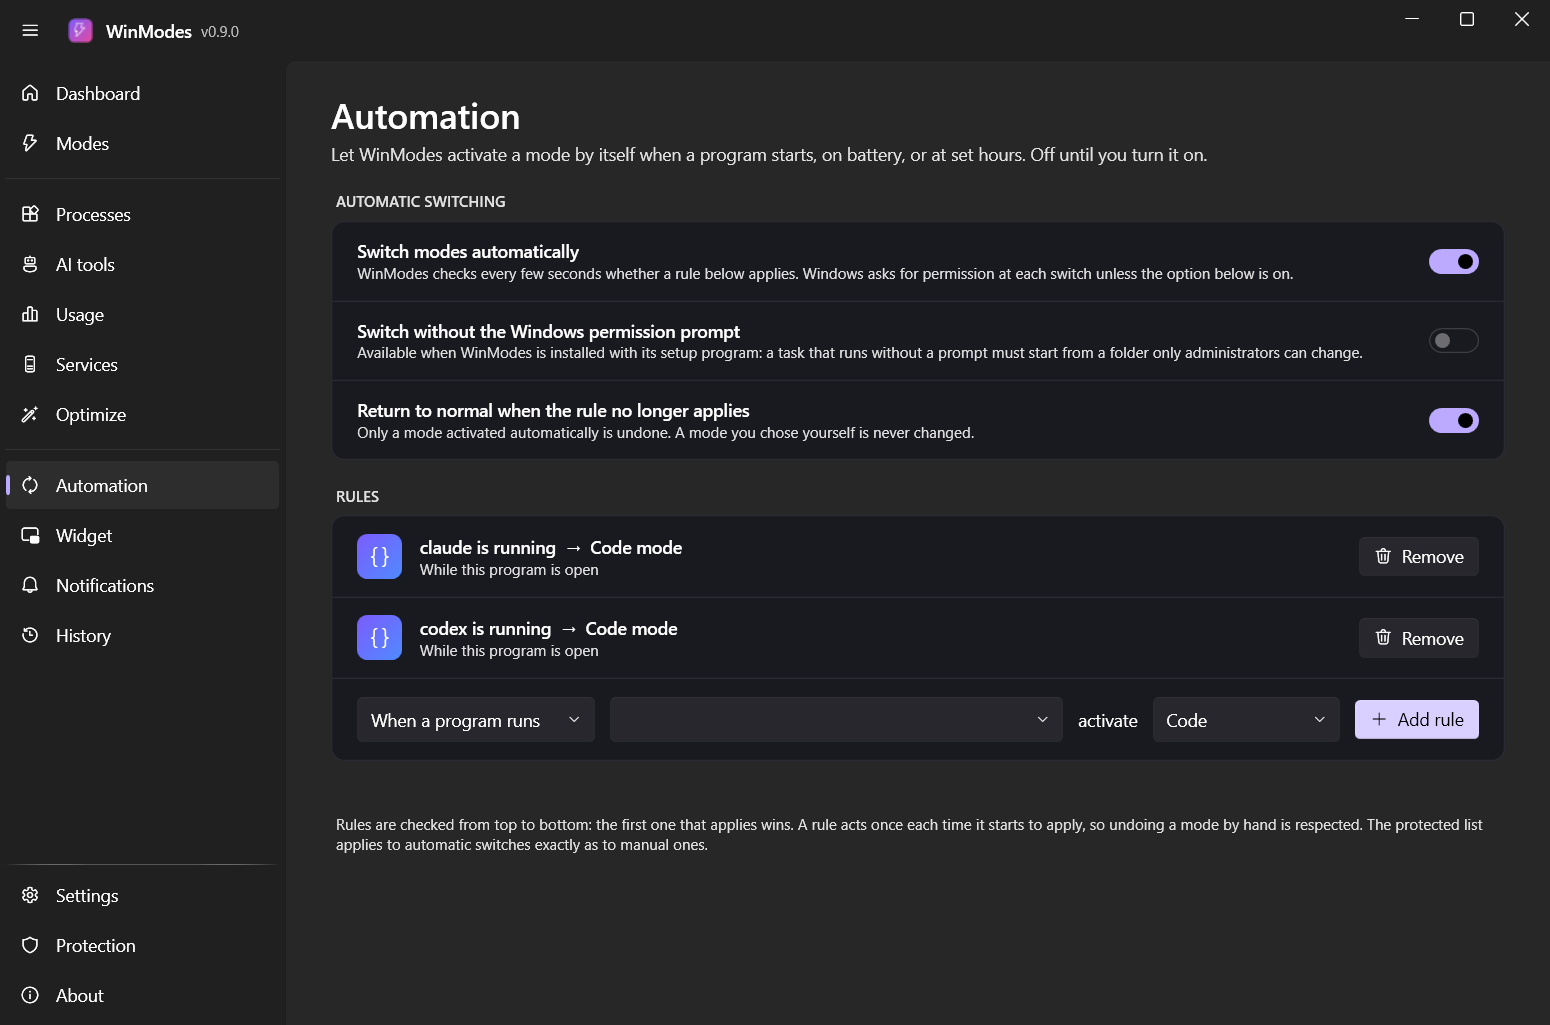
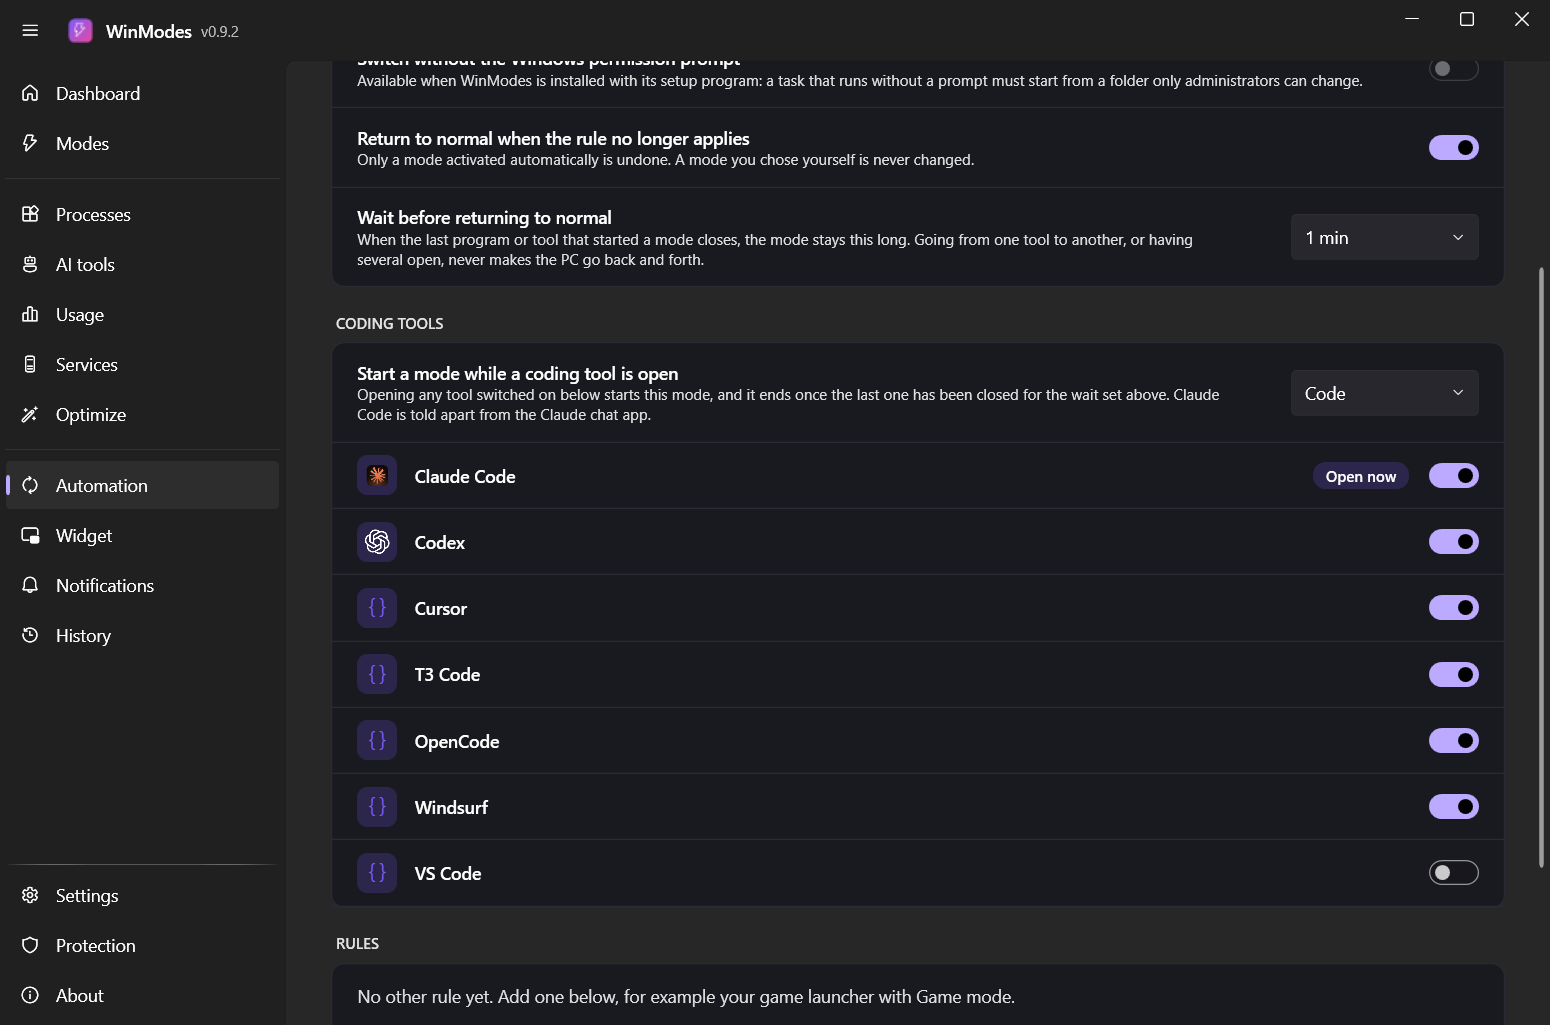
Describe automatic switching in the README and refresh its screenshots

diff --git a/README.md b/README.md
@@ -25,7 +25,7 @@ It also watches the AI coding tools you run: what each one costs in memory, how 
 - **Usage page** (optional, off by default): the **tokens** Claude Code and Codex used (total, new input, output, cache, per day, per model and per project) and how much **memory** each AI tool held per project, over the last day, week or month. The tokens are counted from the usage figures in the logs of the two tools, never from the text of a conversation; everything stays on your PC.
 - **MCP servers in double**: the AI tools page shows the MCP servers that several sessions each started, and the memory they hold together.
 - **Idle sessions**: flagged after 30 minutes without CPU use; end them by hand, or let WinModes do it after a delay you choose (off by default).
-- **Automation** (optional, off by default): rules such as "when `cs2.exe` runs, activate Game mode", "on battery, activate Work mode" or "from 09:00 to 18:00, activate Code mode", undone when the rule no longer applies.
+- **Automatic switching** (optional, off by default; one switch on the Modes page, in the tray menu and on the Automation page): Code mode starts by itself when Claude Code, Codex, Cursor, T3 Code, OpenCode, Windsurf or VS Code opens, and ends after the last of them has been closed for a minute (the wait is yours to choose), so going from one tool to another, or running several, never makes the PC go back and forth. Claude Code is told apart from the Claude chat app. You can add rules of your own, such as "when `cs2.exe` runs, activate Game mode", "on battery, activate Work mode" or "from 09:00 to 18:00, activate Code mode". A mode you chose yourself is never replaced or undone, and nothing is switched during the first 30 seconds after WinModes starts.
 - **Taskbar and desktop widget** (both optional): a small panel next to your app icons (or on the desktop) shows the active mode, CPU, memory, network, the memory used by AI tools and the **plan usage of Claude Code and Codex**: 5 hour and weekly limits, the weekly limit of a model that has its own, and the limit resets kept in reserve. It uses the free room of the taskbar whether the icons are centred or on the left, shows less when there is little room, follows an auto-hide taskbar and can hide during full-screen apps. The notification-area icon can also show the memory used by AI tools.
 - **Hover cards**: rest the mouse on Claude, Codex or the AI tools figure and a card opens after a moment with each limit, a coloured bar and the time it resets, or with what each AI tool uses. It never takes the mouse or the focus.
 - **Plan usage, read reliably**: from the status line of Claude Code and the files of Codex, or online. Signing in to a "WinModes account" in your browser gives a session of its own, renewed by itself, that never touches the sign-in of the tools. If the usage does not appear, the *Check Claude Code* and *Check Codex* buttons say what is missing.
